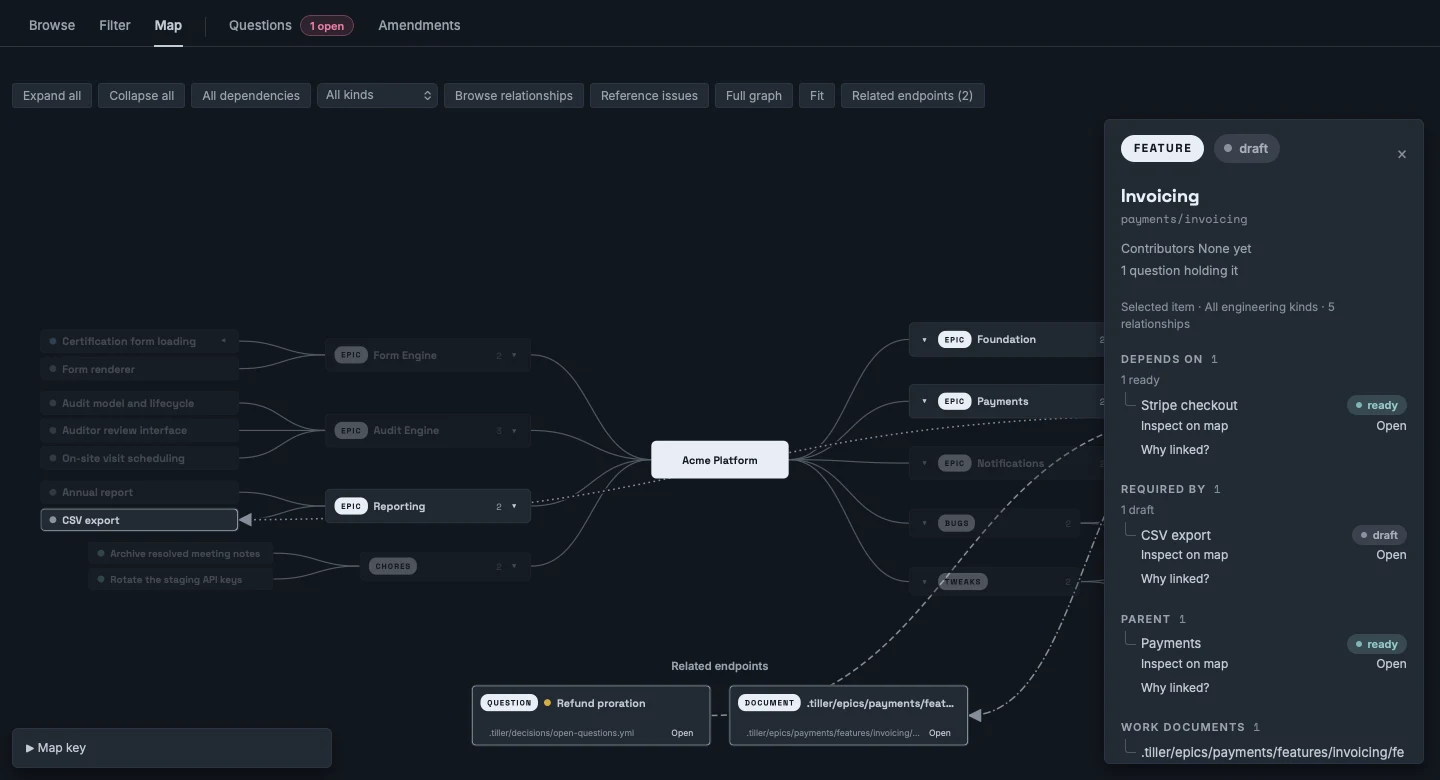
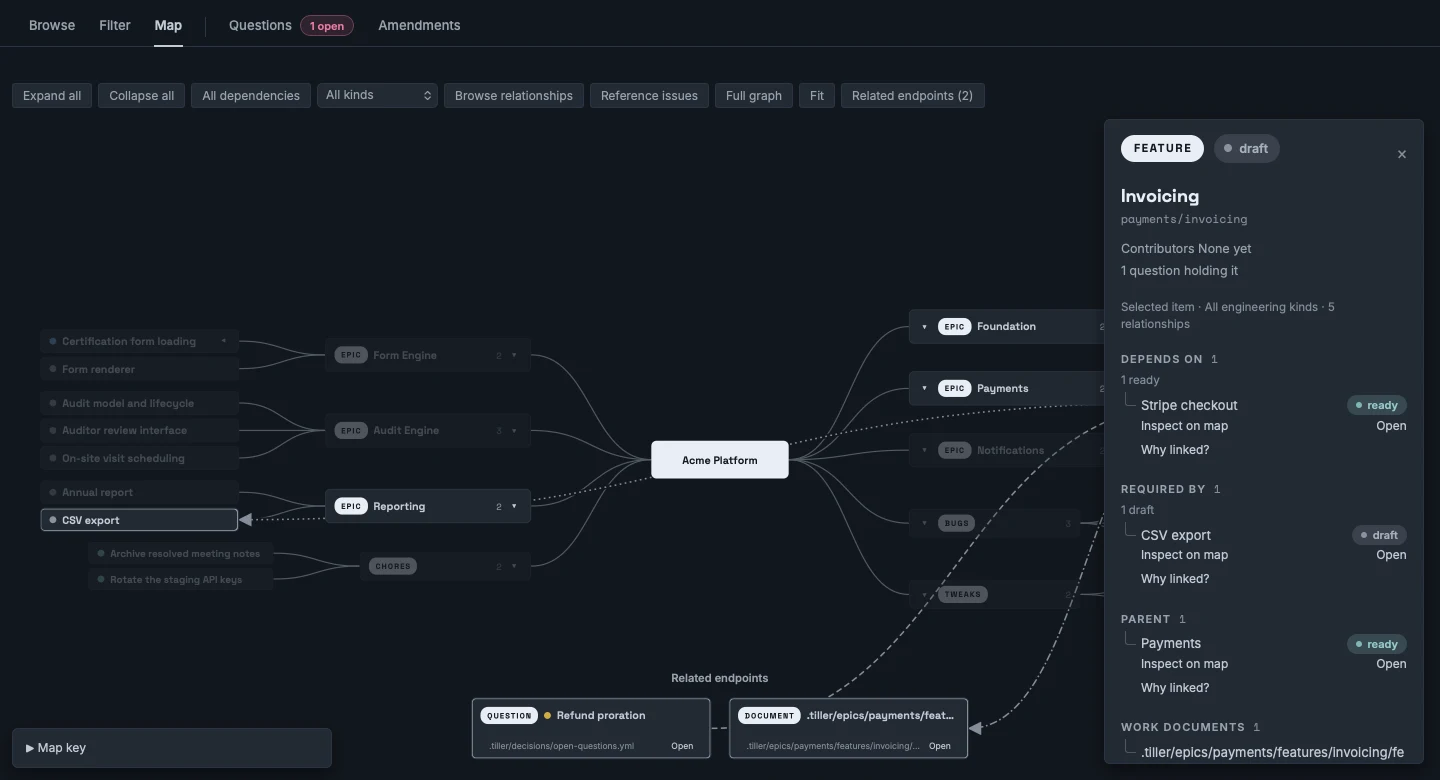
Docs: bug severity on the site guides, Fix screenshots reshot
The console page's Fix section now covers the severity chips, the date
added line, the Sort group, and the severity filter, and the node header
and search results name severity. The skills page says capture and
code-review carry a bug's grade onto the record, and the source
quickstart shows tiller grade bug for regrading past triage.

The Acme fixture gains a graded, approved bug so the Fix shot shows
Unrated, Important, and Minor chips; Home and the map are reshot from the
same fixture against v0.22.0.

diff --git a/site/src/content/docs/console.md b/site/src/content/docs/console.md
@@ -108,16 +108,18 @@ The board is read-only, like everything else. No drag. A card is a thing you rea
 
 ## Fix
 
-Fix is the dedicated shelf-work lens, six columns in task vocabulary: Proposed, Ready, In progress, Check, In review, Closed. A bug, chore, or tweak card carries its noun as a chip, with the owner and the attached node as a quiet kicker.
+Fix is the dedicated shelf-work lens, six columns in task vocabulary: Proposed, Ready, In progress, Check, In review, Closed. A bug, chore, or tweak card carries its noun as a chip, with the owner and the attached node as a quiet kicker, and says when it was added ("Added Oct 12", with the year once it isn't the current one). Every bug card also carries its severity as a chip spelled out in words, Blocker, Important, Medium, or Minor, or a muted Unrated for a bug nobody has graded yet. Chores and tweaks carry none. The word carries the meaning, so the chip reads the same without its tint.
 
-<img class="dark:sl-hidden" src="/tiller/console-fix-light.webp" width="1440" height="780" alt="The Fix lens: six columns from Proposed to Closed, with first-class Bug, Chore, and Tweak work under the shared lifecycle, light theme" />
-<img class="light:sl-hidden" src="/tiller/console-fix-dark.webp" width="1440" height="780" alt="The Fix lens: six columns from Proposed to Closed, with first-class Bug, Chore, and Tweak work under the shared lifecycle, dark theme" />
+<img class="dark:sl-hidden" src="/tiller/console-fix-light.webp" width="1440" height="780" alt="The Fix lens: a filter rail with sort, noun, severity, and attachment groups beside six columns from Proposed to Closed, each bug card carrying its severity chip and every card its date added, light theme" />
+<img class="light:sl-hidden" src="/tiller/console-fix-dark.webp" width="1440" height="780" alt="The Fix lens: a filter rail with sort, noun, severity, and attachment groups beside six columns from Proposed to Closed, each bug card carrying its severity chip and every card its date added, dark theme" />
 
 No card is draggable and the board offers no write interaction of its own.
 
-Open work keeps shelf order. Nonterminal rows preserve the bug shelf sequence followed by the chore and tweak shelf sequences, then render in the column for their raw status, so the board reads in the same order you'd work the queue from the terminal. Closed is one terminal history, combining `done` and `cancelled` without replacing either raw status, newest terminal event first, showing the five newest by default with the full history one click away.
+Open work keeps shelf order by default. Nonterminal rows preserve the bug shelf sequence followed by the chore and tweak shelf sequences, then render in the column for their raw status, so the board reads in the same order you'd work the queue from the terminal. Closed is one terminal history, combining `done` and `cancelled` without replacing either raw status, newest terminal event first, showing the five newest by default with the full history one click away.
 
-A noun filter (bugs, chores, tweaks, or all) and an attachment filter, including an Unattached state, ride the URL the way Build's epic selection does, and the browser remembers them, with the Show older items switch, per project, so coming back to Fix restores the filters you left it with. A feature filter matches work attached directly to it and to its child tasks; an epic filter matches direct attachments plus everything under its descendant features and tasks.
+A Sort group in the filter rail swaps that order for one you choose: Shelf order, Severity, or Date added. Severity runs Blocker, Important, Medium, Minor, then Unrated, with chores and tweaks sorting among the unrated and ties keeping shelf order. Date added puts the newest first. The sort applies to every column, Closed included, but it only reorders the closed items already showing and never changes which ones they are. Sorting is a reading aid and nothing more. What `tiller next` hands out still follows the shelf's soft order, and if you want severity to drive the work, reorder the shelf with `tiller order bug`.
+
+A noun filter (bugs, chores, tweaks, or all), an attachment filter including an Unattached state, and a severity filter ride the URL the way Build's epic selection does (`?sort=severity`, `?severity=blocker,important`). The browser remembers them, with the sort and the Show older items switch, per project, so coming back to Fix restores the board you left. A feature filter matches work attached directly to it and to its child tasks; an epic filter matches direct attachments plus everything under its descendant features and tasks. The severity filter is a multi-select of the four grades plus Unrated. Picking any of them narrows the board to bugs, and Unrated means ungraded bugs, never chores or tweaks.
 
 ## Explore
 
@@ -132,7 +134,7 @@ the top bar, and narrow by status from a rail of tabs, each with its count.
 
 - **Browse** shows the work tree as a real tree, epics to features to tasks, with chevrons, indent guides, and a state dot on every row, alongside entry points for the cross-cutting artifacts: amendments, decisions, design docs. Bugs, Chores, and Tweaks are independent shelf branches below the epics, each with its own expansion state, and a direct address to a shelf node opens the matching branch; all are valid filter nouns too.
 - **The questions ledger** opens from the navigation strip, with only the open count in the accent badge. The questions page lists every question, open ones first with id and short title, due date, what they block, and copyable commands to answer, cancel, or unlink one of the things it blocks, and answered ones staying listed with their answers inline. A fixed Cancelled tab lists cancelled questions, each card showing the reason it needed no decision. The full statement is one click away on the question's own page.
-- **Filter** and **search** share one persistent bar over the navigator. Search matches node fields and the project's own markdown prose under `.tiller/`. A node-owned hit keeps the ordinary node address; an unowned prose hit links its file and line to a read-only file page instead. A matching shelf title or shelf prose passage attributes to the owning bug, chore, or tweak node. Search stays keyword-only. No query language, no semantic search, and no ranking beyond plain matching.
+- **Filter** and **search** share one persistent bar over the navigator. Search matches node fields and the project's own markdown prose under `.tiller/`. A node-owned hit keeps the ordinary node address; an unowned prose hit links its file and line to a read-only file page instead. A matching shelf title or shelf prose passage attributes to the owning bug, chore, or tweak node, and a bug's result row carries its severity chip. Search stays keyword-only. No query language, no semantic search, and no ranking beyond plain matching.
 
 ### The map
 
@@ -194,7 +196,7 @@ The header reads as a chain. Ancestors render as a breadcrumb, each crumb carryi
 
 Then the title stands alone, then one quiet mono reference line carries the canonical key path with the id in parentheses and a copy affordance, so two nodes that happen to share a title are still tellable apart. An epic or a feature adds the children's state bar beneath that, with a count caption such as "5 features · 5 done."
 
-One facts block follows, label over value, under the header's one divider. Contributors for epics/features; Owner for tasks, bugs, chores, and question attribution. Proposed by, when it names someone other than the owner. Found in and carried by on a bug, chore, or tweak, each linking to its target with the target's own chip. Branch, PR, change and touches. The basis, verified against once the node is done and approved against before, each reference a short sha with the full token on hover and linked to its page when the origin is GitHub. And the done basis.
+One facts block follows, label over value, under the header's one divider. Contributors for epics/features; Owner for tasks, bugs, chores, and question attribution. Proposed by, when it names someone other than the owner. Found in and carried by on a bug, chore, or tweak, each linking to its target with the target's own chip. Severity on every bug, reading Unrated when nobody has graded it. Branch, PR, change and touches. The basis, verified against once the node is done and approved against before, each reference a short sha with the full token on hover and linked to its page when the origin is GitHub. And the done basis.
 
 ### The attention stack
 

diff --git a/site/src/content/docs/skills.md b/site/src/content/docs/skills.md
@@ -29,6 +29,8 @@ This page covers what each skill does. [Concepts](/tiller/concepts/) owns the mo
 
 `orient` relays the ranked next list: every legal move for your checkout, human decisions included, ranked by where you have been working, at most five. It names any of your decisions that rank above the top agent move, ends its reply on the list, and starts that agent move once your reply does not redirect. Tiller ranks by a fixed rule and never calls a model; the agent may say it would take a different row first, but it reproduces the list as printed.
 
+`capture` grades every bug it files by impact, never by the size of the fix, and the grade lands on the record as the bug's severity: `blocker` (data loss, a broken security boundary, a crash on a main path, or a violated acceptance criterion), `important` (wrong behavior on a realistic path), `medium` (an edge case, or a construct likely to break), or `minor` (a real defect with negligible impact). When the impact can't be known yet, it leaves the bug unrated and says why in the contract, so you grade it at triage. Chores and tweaks carry no severity. Severity sorts and filters the console's Fix lens and never changes what ranks next. `tiller guide capture` holds the full scale.
+
 `capture` never approves, claims, starts, resolves, or cancels what it wrote; triage is the human's `tiller approve bug`, `tiller approve chore`, or `tiller approve tweak`. Once a bug, chore, or tweak is ready and claimed, `execute` runs it the way it runs a task, on its own branch, with the attached node's context read first, a regression test where the work is a fix, task-grade gates, and a stop at the human's merge. Shelf work ignores review grain and runs no eval.
 
 ## Plan outcomes through the known scope
@@ -205,7 +207,7 @@ Then say what to keep:
 
 > log bugs 1, 3, and 7, chore 2, tweaks 1-3, and plan change 1
 
-Bugs, tweaks, and chores become `proposed` records attached to where they were found, citing the review. Plan changes become one `proposed` amendment. "fix B2 on its branch" sends a finding in unmerged work back to its task, "drop CH1" declines one, and "commit the review" keeps a review that needs nothing logged. Each request is one commit, and every approval stays with you.
+Bugs, tweaks, and chores become `proposed` records attached to where they were found, citing the review, and each logged bug keeps the grade the review gave it as its severity. Plan changes become one `proposed` amendment. "fix B2 on its branch" sends a finding in unmerged work back to its task, "drop CH1" declines one, and "commit the review" keeps a review that needs nothing logged. Each request is one commit, and every approval stays with you.
 
 ```sh
 tiller guide code-review

diff --git a/site/src/content/docs/source-quickstart.md b/site/src/content/docs/source-quickstart.md
@@ -462,7 +462,7 @@ git add .tiller && git commit -m "capture: blank-on-reload"
 Created bug bugs/blank-on-reload (B-4k2p9x) in proposed: "Form blanks on reload" (attached to foundation/app-scaffold (F-dv5ppv))
 ```
 
-Capture grades the bug by impact (`blocker`, `important`, `medium`, or `minor`) and never approves, claims, or starts what it just wrote. Triage is yours. `tiller approve bug` refuses a bug nobody has graded, and its `--severity <level>` grades or regrades the bug at triage:
+Capture grades the bug by impact (`blocker`, `important`, `medium`, or `minor`) and never approves, claims, or starts what it just wrote. Triage is yours. `tiller approve bug` refuses a bug nobody has graded, and its `--severity <level>` grades or regrades the bug at triage. Past triage, anyone can change an open bug's grade with `tiller grade bug blank-on-reload minor`. The grade sorts and filters the Fix lens; it never changes what `tiller next` hands out:
 
 ```sh
 tiller approve bug blank-on-reload
